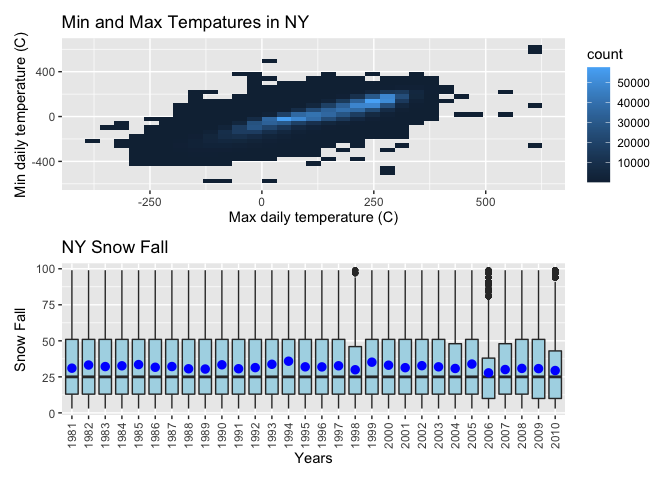
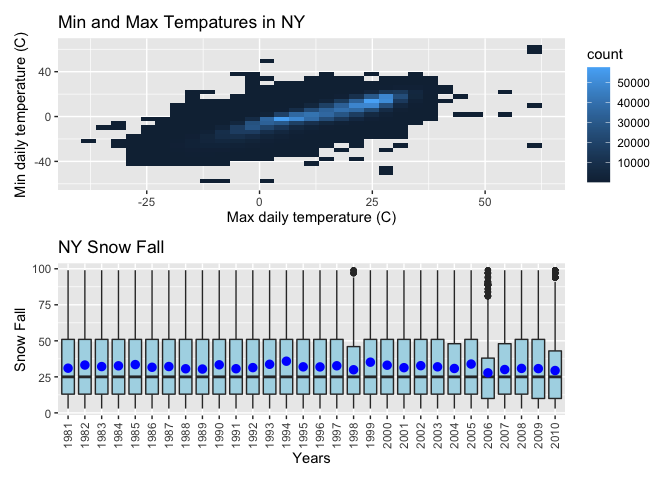
changing q three

diff --git a/p8105_hw3_ajp2257.md b/p8105_hw3_ajp2257.md
@@ -371,7 +371,10 @@ have missing values.
 We are first cleaning up the data. This involves putting the date
 variable into a year, month, and day variables. We also want to force
 the max and min temperature to be numeric values instead of characters
-since that makes more sense with what temperature is.
+since that makes more sense with what temperature is. Also the temp
+variables didn’t make a lot of sense because it is in tenths of degrees
+C so we need to divide them by ten to get them in a form we are used to
+seeing
 
 ``` r
 ny_noaa_fixed = ny_noaa %>%
@@ -381,7 +384,9 @@ ny_noaa_fixed = ny_noaa %>%
    month = as.integer(month),
    day = as.integer(day),
    tmax = as.numeric(tmax),
-   tmin = as.numeric(tmin)
+   tmin = as.numeric(tmin),
+   tmax = tmax / 10,
+   tmin = tmin / 10
   )
 ```
 
